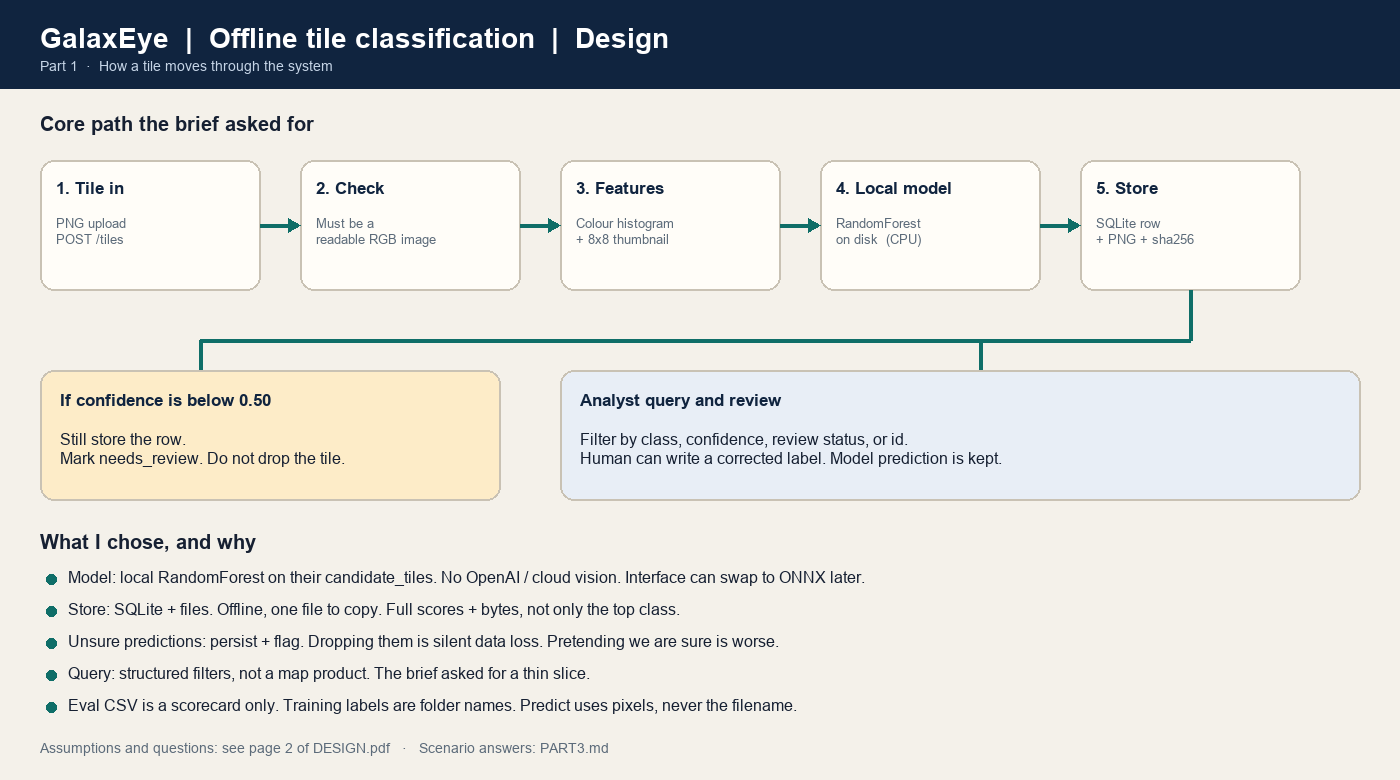
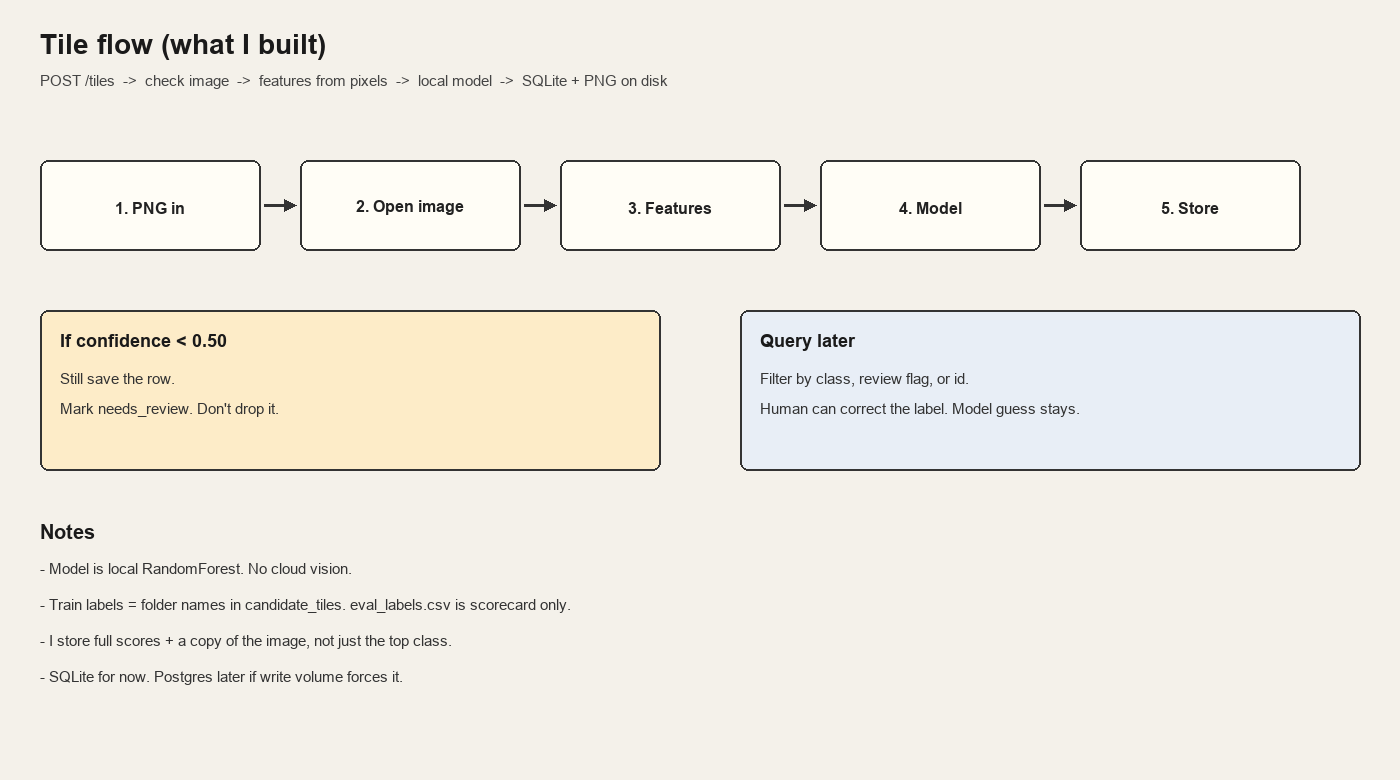
Rewrite the design note in plain language.

diff --git a/DESIGN.md b/DESIGN.md
@@ -1,150 +1,68 @@
-# Design note — offline tile classification
+# Design note
 
-GalaxEye take-home, Part 1. Informal, 1–2 pages. The required slice is
-ingest → classify → store. Query, review, and canary are the smallest
-extensions that make the design honest.
+Part 1. Just how I would build this and what I actually shipped.
 
-## What I am building
+## The idea
 
-An air-gapped service that takes a satellite tile, runs a local land-use
-classifier, writes a structured result, and lets an analyst ask simple
-questions of those results. No hosted model APIs. If the box has no
-internet, inference still works.
+A small offline service. You send it a satellite tile, it guesses the land-use class, it saves that guess, and someone can look the results up later. No internet, no OpenAI, nothing in the cloud.
 
-Tile flow:
+I only built the core path they asked for: take a tile, classify it, store it. I added a bit extra (list, review, a canary check) because otherwise I couldn't tell if the thing was lying to me.
 
-1. Analyst or upstream ingest POSTs a PNG to `/tiles`.
-2. The API validates it is a readable RGB image.
-3. A frozen local model returns a class, a confidence, and the full score vector.
-4. If confidence is below a threshold, the row is stored as `needs_review`
-   rather than silently treated as truth.
-5. The original bytes are kept on disk; metadata goes to SQLite.
-6. An analyst lists by label, review status, or confidence, or opens one id.
+## How a tile moves
 
-Still not in scope (and not asked): login, Postgres, GPU/CNN, map search,
-multi-process workers, cloud. Batch ingest, analyst table, human review
-write-back, and a local canary are implemented.
+1. POST a PNG to `/tiles`
+2. Check it actually opens as an image
+3. Pull some colour / thumbnail features from the pixels
+4. Local sklearn model returns a class + confidence + scores for all 7 classes
+5. If confidence is under 0.50 I still save the row, I just mark it `needs_review`
+6. Image goes on disk, metadata goes in SQLite
+7. GET `/tiles` or `/tiles/{id}` to query
 
-## Components
+That's it. Filename is not used for the label. I learned that the hard way while testing, so I made sure the model only sees pixels.
 
-| Piece | Choice | Why |
-|---|---|---|
-| API | FastAPI | One obvious endpoint, typed, easy to change live in an interview |
-| Model | sklearn RandomForest on colour + coarse spatial features | CPU, seconds to train, no GPU, no download at runtime |
-| Store | SQLite + tile files on disk | Offline, one file to copy, SQL is enough for “show me Forest tiles” |
-| Runtime | One Python process | Matches an isolated box; no Redis/Postgres/S3 to stand up |
+## Pieces
 
-I treated the classifier as a **swap point**, not the product. Tomorrow it
-can be a fine-tuned ResNet. Today it is a small model that actually runs.
+- FastAPI — I know it, one endpoint is easy to explain
+- RandomForest (joblib file) — trains on CPU in a minute, no GPU
+- SQLite + a folder of PNGs — one process, one box, no Postgres to install
 
-## Decisions I weighed
+The model is behind a small wrapper. If this was a real GalaxEye machine I would swap in a better model later and leave the API alone.
 
-### 1. What “querying the results” means
+## Choices I actually argued with myself about
 
-Options I considered:
+**What does "query" mean?**  
+I thought about writing a CSV after each run. That's fine for homework, bad if two people want different cuts of the same data. Full map search felt like building a product they said not to build. So I just store rows and filter: class, confidence, review flag, id. Boring, but it answers "show me Forest" and "what's in review".
 
-- **A.** Dump a CSV after each run. Fine for a lab, useless once two people
-  ask different questions.
-- **B.** Full search (text, map, embeddings). Too much product for a slice.
-- **C.** Structured filters on stored predictions: label, confidence,
-  review status, time, id.
+**What do I save?**  
+Not only the top label. I keep the full score vector, model version, filename, and a copy of the image. If something looks wrong next month I want the exact bytes and the exact scores, not a guess. I didn't save the feature vector. That's coupled to this featurizer and I can always recompute it from the PNG.
 
-I chose C. The questions an analyst actually asks first are “how many
-industrial tiles this week?”, “what was this id labelled?”, and “what is
-sitting in the review pile?”. If GalaxEye later needs “tiles like this
-one” or lat/lon, that is a new index on the same records, not a rewrite.
+**Unsure predictions**  
+Three options: pretend every guess is fine, drop the weak ones, or keep them and flag them. Dropping them loses data. Pretending is worse. So I keep everything and set `needs_review` below 0.50. The number is a bit arbitrary. I would tune it on their eval set if this went further.
 
-### 2. What to store
+**Why this model**  
+They said train or use a pretrained local model, and they are not grading accuracy. I trained on the folder names in `candidate_tiles` (150 per class). Eval labels I did not train on. I got about 77% on eval. Highway is the messy one. PyTorch felt heavy for this and I wanted something I can change in an interview.
 
-I store more than the top class:
+**SQLite**  
+Good enough for an offline box. I would move to Postgres if lots of people were writing at once. Same tables.
 
-- predicted label and confidence
-- full class scores (so we can change the threshold later without rerunning)
-- model version
-- review status
-- original filename and a copy of the bytes
+## Stuff I assumed
 
-I do **not** store only the argmax. If results look wrong a month later,
-I want to reopen the exact image and the exact score vector the model
-produced, not re-guess from a label.
-
-I do **not** store raw feature vectors in v1. They help debugging, but
-they couple the database to one featurizer. Easy to add.
-
-### 3. Predictions the model is not sure about
-
-Options:
-
-- Always write the top class and pretend we are sure.
-- Drop low-confidence tiles. Silent data loss. Bad.
-- Separate “prediction” from “decision”: persist everything, mark
-  `needs_review` below a threshold (0.50 here).
-
-I chose the third. The threshold is a product decision, not a model
-decision. A 0.51 Forest vs 0.49 River should not ship as confident
-land-use. The API still returns a label so the pipeline never blocks;
-the review flag is what an analyst filters on.
-
-I would rather tune that threshold on a labelled eval set (they gave us
-one) than invent a fancy abstain model on day one.
-
-### 4. Model: train vs pretrained, sklearn vs torch
-
-The zip is a EuroSAT subset with 1,050 labelled candidate tiles and a
-210-tile eval set. ImageNet weights do not know `AnnualCrop` vs
-`SeaLake`. A hosted vision API is disallowed.
-
-So: train locally on `candidate_tiles`, measure on `eval_set`, ship the
-artifact. Accuracy is not the grade, but a model that cannot tell water
-from forest would make the rest of the design hard to talk about.
-
-Why not PyTorch here: heavier install, slower CPU train, harder to
-modify live, and the brief said a wrong model is fine. A RandomForest on
-colour histograms + an 8×8 thumbnail is honest about the constraint
-(offline, CPU) and landed at **~77% on their eval set**. Highway is the
-weak class (confused with Residential and River), which is exactly the
-kind of error a review threshold is for. If this were a real GalaxEye
-box I would drop a fine-tuned MobileNet/ONNX behind the same
-`LandUseClassifier` interface.
-
-### 5. SQLite vs a “real” database
-
-SQLite wins for an isolated appliance: no daemon, one file, trivial
-backup. It loses if we have many concurrent writers or multi-GB imagery
-catalogues. The first thing that would force a move is ingest volume,
-not query complexity. Postgres later; same schema.
-
-## Assumptions
-
-- Tiles are single 64×64-class RGB PNGs, one land-use label each, EuroSAT-like.
-- “Offline” means inference and storage. Installing Python deps once on a
-  connected laptop is allowed; the running service does not call the network.
-- One tile per request is the core path. Batch can be a loop over that path.
-- We are not given geolocation, sensor, or capture time, so I do not invent them.
-- Analysts can live with label / confidence / review filters at first.
-- A model that is often wrong is acceptable if the system is honest about it.
+- Tiles are small RGB PNGs, one class each, like the zip they sent
+- Offline means the running app doesn't call the network. pip install once is ok
+- They didn't give lat/lon or sensor info so I didn't fake it
+- Being wrong a lot is ok if we don't hide it
 
 ## Questions I would ask
 
-1. What is the downstream decision? Map product, change detection, or a
-   human report? That sets how costly a Forest↔River swap is vs a
-   Residential↔Industrial swap.
-2. Do tiles arrive one-by-one or as a strip/scene we must cut ourselves?
-3. Is there a human review step in ops today, and who owns the labels?
-4. Will production imagery stay Sentinel-2 / EuroSAT-like, or will sensor
-   and GSD change? That decides whether this featurizer survives.
-5. What is the latency budget, and is CPU-only a hard constraint on the
-   target box?
-6. Do we need to keep the raw tile indefinitely (forensics / retraining)
-   or only the prediction?
-7. Who is allowed to query, and is this box shared or single-operator?
+- What decision does the label drive? Forest vs water miss is different from calling a factory a house.
+- Do tiles arrive one by one or do we have to cut a big scene?
+- Is there already a human in the loop?
+- Will the real images still look like EuroSAT or is this a different satellite / resolution?
+- How long do we keep the raw tiles?
+- Who is allowed to query this?
 
-## Built after the thin slice
+## What I didn't build
 
-- Daily-style canary: `POST /canary` rewrites `var/canary.json`.
-- Review write-back: `PATCH /tiles/{id}/review` keeps the model label and stores the human one.
-- Batch ingest: multi-file upload and `POST /ingest/eval-set`.
-- Analyst table + review screen in the local UI.
-- Append-only log at `var/app.log`.
+Login, a map, a proper GPU model, workers, Postgres. They said stub the rest. I did.
 
-Still later, if this were a real box: per-class thresholds, two model artifacts side by side, geo index.
+I did add a simple review form and a canary (`POST /canary`) that re-runs the eval set. That's so I can tell if the box is still sane after a month with nobody watching.
